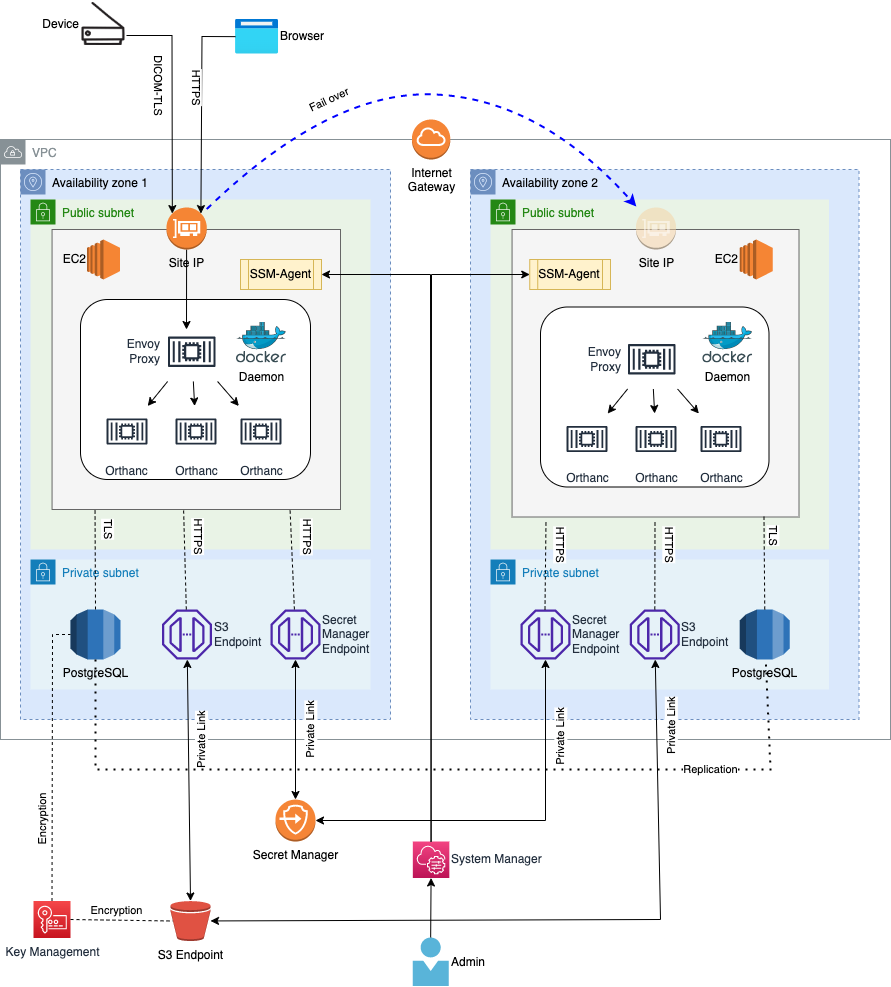
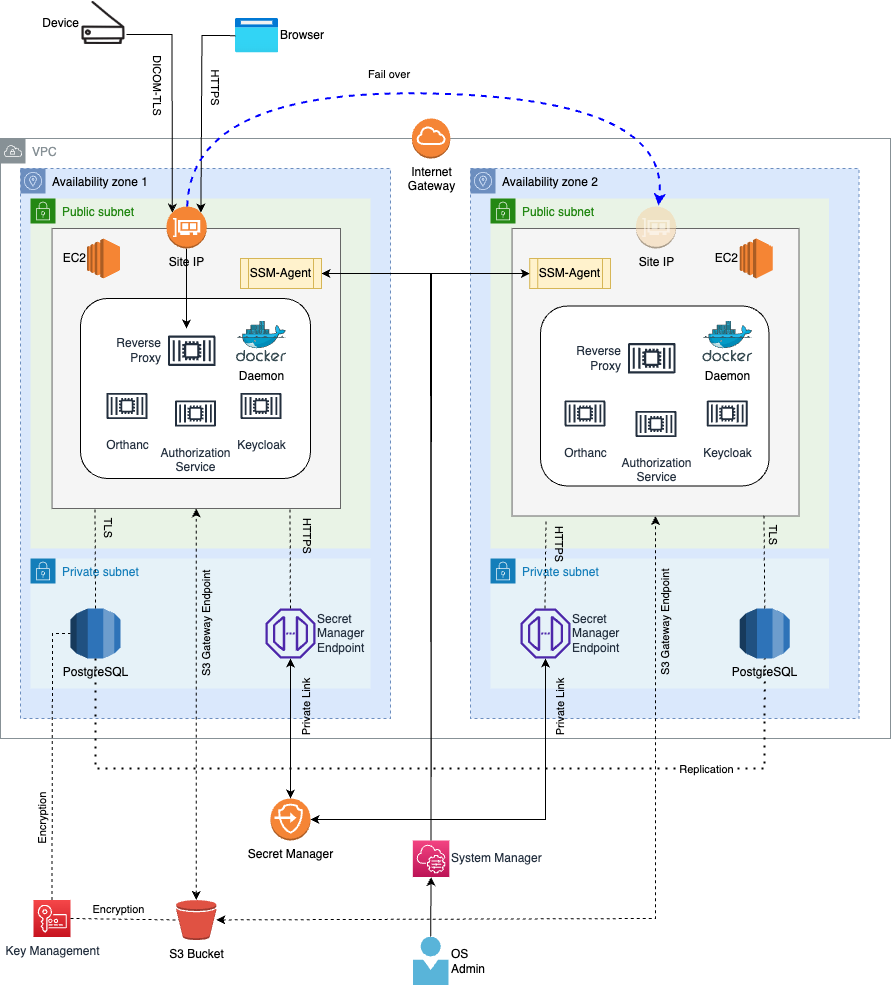
update deployment option param and document

diff --git a/README.md b/README.md
@@ -1,14 +1,22 @@
 # Orthweb - Orthanc on AWS
 <a href="https://www.orthanc-server.com/"><img style="float" align="right" src="docs/assets/images/orthanc_logo.png"></a>
 
-[![Docker](https://img.shields.io/badge/docker-%230db7ed.svg?logo=docker&logoColor=white)](https://www.docker.com/)
-[![Terraform](https://img.shields.io/badge/terraform-%235835CC.svg?logo=terraform&logoColor=white)](https://www.terraform.io/)
-[![Postgres](https://img.shields.io/badge/postgres-%23316192.svg?logo=postgresql&logoColor=white)](https://www.postgresql.org/)
-[![envoybadge](https://img.shields.io/badge/envoyproxy-%23ac6199.svg?logo=envoyproxy&logoColor=white)](https://www.envoyproxy.io/)
+
 [![Linux](https://img.shields.io/badge/Linux-FCC624?logo=linux&logoColor=black)](https://aws.amazon.com/amazon-linux-2)
-[![AWS](https://img.shields.io/badge/AWS-%23FF9900.svg?logo=amazon-aws&logoColor=white)](https://portal.aws.amazon.com/)
+[![Docker](https://img.shields.io/badge/docker-%230db7ed.svg?logo=docker&logoColor=white)](https://www.docker.com/)
+[![Postgres](https://img.shields.io/badge/postgres-%23316192.svg?logo=postgresql&logoColor=white)](https://www.postgresql.org/)
+[![Nginx](https://img.shields.io/badge/nginx-%23009639.svg?&logo=nginx&logoColor=white)](https://nginx.org/en/index.html)
+![Keycloak](https://img.shields.io/badge/Keycloak-4D4D4D?logo=keycloak&logoColor=white&style=flat)
+
+[![AWS](https://img.shields.io/badge/Amazon_AWS-232F3E?logo=amazon-web-services&logoColor=white)](https://portal.aws.amazon.com/)
+[![Terraform](https://img.shields.io/badge/terraform-%235835CC.svg?logo=terraform&logoColor=white)](https://www.terraform.io/)
+![Amazon EC2](https://img.shields.io/badge/Amazon%20EC2-F90?logo=amazonec2&logoColor=fff&style=flat)
+![Amazon S3](https://img.shields.io/badge/Amazon%20S3-569A31?logo=amazons3&logoColor=fff&style=flat)
+![Amazon RDS](https://img.shields.io/badge/Amazon%20RDS-527FFF?logo=amazonrds&logoColor=fff&style=flat)
+
 [![License](https://img.shields.io/badge/License-Apache_2.0-blue.svg)](https://opensource.org/licenses/Apache-2.0)
 [![Latest Release](https://img.shields.io/github/v/release/digihunch/orthweb)](https://github.com/digihunch/orthweb/releases/latest) 
+
 ## Overview
 
 **[Orthweb](https://github.com/digihunch/orthweb)** helps imaging IT administrators operate **[Orthanc](https://www.orthanc-server.com/)** on AWS. The [documentation](https://digihunch.github.io/orthweb/) provides a step-by-step guide for deployment and discusses the architecture.
@@ -23,4 +31,4 @@ However, many Orthanc adopters are smaller entities such as startups, research f
 The **Orthweb** template provisions its own self-contained infrastrcture stack in a single AWS account. It does not rely upon an established network infrastructure platform. The network infrastructure layer provisioned in the project contains a single VPC with multiple subnets, along with required endpoints. The infrastructure layer also contains encryption keys, managed database service and S3 storage. The infrastrcture footprint is small but secure. It aims to comply with regulatory requirements such as HIPPA. However, regulatory auditing is the responsibility of the Orthanc adopter. 
 <br/><br/>
 
-The **Orthweb** project uses **Terraform** for infrastructure as code. It also leverages cloud-init [user data](https://docs.aws.amazon.com/AWSEC2/latest/UserGuide/user-data.html) to automatically install and configure Orthanc application during server bootstrapping. Bring your own AWS account, **Orthweb** can typically set up Orthanc server within 30 minutes and start to serve HTTP and DICOM traffic. The project also takes into account other operational aspects, such as high availability, resiliency and automation in the configuration of **Orthanc** application with Docker, using the official [Orthanc image](https://hub.docker.com/r/orthancteam/orthanc). For those considering hosting Orthanc on Kubernetes, check out our sister project [Korthweb](https://github.com/digihunch/korthweb).
+The **Orthweb** project uses **Terraform** for infrastructure as code. It leverages cloud-init [user data](https://docs.aws.amazon.com/AWSEC2/latest/UserGuide/user-data.html) to configure Orthanc application during server bootstrapping. The configuration is stored in the [orthanc-config](https://github.com/digihunchinc/orthanc-config) repository. Bring your own AWS account, let **Orthweb** set up an Orthanc server within 30 minutes, and start to serve HTTP and DICOM traffic. The project also takes into account other operational aspects, such as high availability, resiliency and automation in the configuration of **Orthanc** application with Docker, using the official [Orthanc image](https://hub.docker.com/r/orthancteam/orthanc). For those considering hosting Orthanc on Kubernetes, check out our sister project [Korthweb](https://github.com/digihunch/korthweb).

diff --git a/docs/index.md b/docs/index.md
@@ -1,12 +1,17 @@
 # Orthweb - Orthanc on AWS
 <a href="https://www.orthanc-server.com/"><img style="float" align="right" src="assets/images/orthanc_logo.png"></a>
 
-[![Docker](https://img.shields.io/badge/docker-%230db7ed.svg?logo=docker&logoColor=white)](https://www.docker.com/)
-[![Terraform](https://img.shields.io/badge/terraform-%235835CC.svg?logo=terraform&logoColor=white)](https://www.terraform.io/)
-[![Postgres](https://img.shields.io/badge/postgres-%23316192.svg?logo=postgresql&logoColor=white)](https://www.postgresql.org/)
-[![envoybadge](https://img.shields.io/badge/envoyproxy-%23ac6199.svg?logo=envoyproxy&logoColor=white)](https://www.envoyproxy.io/)
 [![Linux](https://img.shields.io/badge/Linux-FCC624?logo=linux&logoColor=black)](https://aws.amazon.com/amazon-linux-2)
-[![AWS](https://img.shields.io/badge/AWS-%23FF9900.svg?logo=amazon-aws&logoColor=white)](https://portal.aws.amazon.com/)
+[![Docker](https://img.shields.io/badge/docker-%230db7ed.svg?logo=docker&logoColor=white)](https://www.docker.com/)
+[![Postgres](https://img.shields.io/badge/postgres-%23316192.svg?logo=postgresql&logoColor=white)](https://www.postgresql.org/)
+[![Nginx](https://img.shields.io/badge/nginx-%23009639.svg?&logo=nginx&logoColor=white)](https://nginx.org/en/index.html)
+![Keycloak](https://img.shields.io/badge/Keycloak-4D4D4D?logo=keycloak&logoColor=white&style=flat)
+
+[![AWS](https://img.shields.io/badge/Amazon_AWS-232F3E?logo=amazon-web-services&logoColor=white)](https://portal.aws.amazon.com/)
+[![Terraform](https://img.shields.io/badge/terraform-%235835CC.svg?logo=terraform&logoColor=white)](https://www.terraform.io/)
+![Amazon EC2](https://img.shields.io/badge/Amazon%20EC2-F90?logo=amazonec2&logoColor=fff&style=flat)
+![Amazon S3](https://img.shields.io/badge/Amazon%20S3-569A31?logo=amazons3&logoColor=fff&style=flat)
+![Amazon RDS](https://img.shields.io/badge/Amazon%20RDS-527FFF?logo=amazonrds&logoColor=fff&style=flat)
 
 [![License](https://img.shields.io/badge/License-Apache_2.0-blue.svg)](https://opensource.org/licenses/Apache-2.0)
 [![Latest Release](https://img.shields.io/github/v/release/digihunch/orthweb)](https://github.com/digihunch/orthweb/releases/latest) 
@@ -19,4 +24,6 @@
 The **Orthweb** template provisions its own self-contained infrastrcture stack in a single AWS account. It does not rely upon an established network infrastructure platform. The network infrastructure layer provisioned in the project contains a single VPC with multiple subnets, along with required endpoints. The infrastructure layer also contains encryption keys, managed database service and S3 storage. The infrastrcture footprint is small but secure. It aims to comply with regulatory requirements such as HIPPA. However, regulatory auditing is the responsibility of the Orthanc adopter. 
 <br/><br/>
 
-The **Orthweb** project uses **Terraform** for infrastructure as code. It also leverages cloud-init [user data](https://docs.aws.amazon.com/AWSEC2/latest/UserGuide/user-data.html) to automatically install and configure Orthanc application during server bootstrapping. Bring your own AWS account, **Orthweb** can typically set up Orthanc server within 30 minutes and start to serve HTTP and DICOM traffic. The project also takes into account other operational aspects, such as high availability, resiliency and automation in the configuration of **Orthanc** application with Docker, using the official [Orthanc image](https://hub.docker.com/r/orthancteam/orthanc). For those considering hosting Orthanc on Kubernetes, check out our sister project [Korthweb](https://github.com/digihunch/korthweb).
+The **Orthweb** project uses **Terraform** for infrastructure as code. It leverages cloud-init [user data](https://docs.aws.amazon.com/AWSEC2/latest/UserGuide/user-data.html) to configure Orthanc application during server bootstrapping. The configuration is stored in the [orthanc-config](https://github.com/digihunchinc/orthanc-config) repository. Bring your own AWS account, let **Orthweb** set up an Orthanc server within 30 minutes, and start to serve HTTP and DICOM traffic. The project also takes into account other operational aspects, such as high availability, resiliency and automation in the configuration of **Orthanc** application with Docker, using the official [Orthanc image](https://hub.docker.com/r/orthancteam/orthanc). For those considering hosting Orthanc on Kubernetes, check out our sister project [Korthweb](https://github.com/digihunch/korthweb).
+
+

diff --git a/docs/architecture/orthweb.md b/docs/architecture/orthweb.md
@@ -9,13 +9,13 @@ The Orthweb Architecture can be illustrated in the diagram below:
 
 The site's IP is associated with an Elastic Network Interface (ENI). It is connected to the primary EC2 instance hosted in availability zone 1. Business traffic (DICOM and HTTP) are routed to the Site IP at port 11112 and 443. 
 
-Within each EC2 instance, Docker daemon runs the containers for Envoy proxy and Orthanc application. Orthweb uses [Docker Compose](https://docs.docker.com/compose/) to orchestrate the containers in such a way that three replicas of Orthanc containers operates behind one replica of Envoy proxy container. To scale up, you may increase the number of replicas for Orthanc containers. This scaling model is sufficient for typical Orthanc use cases. 
+Within each EC2 instance, Docker daemon runs the containers for Nginx proxy and Orthanc application. Orthweb uses [Docker Compose](https://docs.docker.com/compose/) to orchestrate the containers in such a way that three replicas of Orthanc containers operates behind one replica of Nginx proxy container. To scale up, you may increase the number of replicas for Orthanc containers. This scaling model is sufficient for typical Orthanc use cases. 
 
-The Envoy proxy serves two different proxy routes: 
+The Nginx proxy serves two different proxy routes: 
 
 ```mermaid
 graph TD;
-    B[Web Browser] --> |HTTPS\n TCP 443|C{Envoy Proxy\n Container};
+    B[Web Browser] --> |HTTPS\n TCP 443|C{Nginx Proxy\n Container};
     X[DICOM Device] -->|DICOM TLS\n TCP 11112| C;
     C -->|HTTPS\n TCP 8042| D[Orthanc\n Container];
     C -. DICOM\n TCP 4242 .-> D;
@@ -25,7 +25,7 @@ graph TD;
     C -. DICOM\n TCP 4242 .-> G;
 ```
 
-The Envoy proxy is configured to spread traffic across three Orthanc containers, with session affinity configured. Each Orthanc container is able to connect to S3 and PostgreSQL database via their respect endpoint in the subnet.
+The Nginx proxy is configured to spread traffic across three Orthanc containers, with session affinity configured. Each Orthanc container is able to connect to S3 and PostgreSQL database via their respect endpoint in the subnet.
 
 
 ## Failover
@@ -64,7 +64,7 @@ Configuring TLS certificate is essential to the security of this architecture. H
 
 A self-signed certificate can encrypt the traffic even though its identity is not certified by the organization's certified authority. Since the Elastic IP is automatically assigned with the format of `ec2-pub-lic-ip-addr.<region>.compute.amazonaws.com`, the self-signed certificate is issued to `compute.amazonaaws.com`. 
 
-The certificate must be applied to both HTTP and DICOM ports for traffic encryption, because the data contains patient information and travels across the Internet. Orthweb automatically configures Envoy proxy using the self-signed certificate for both TCP ports (443 and 11112). 
+The certificate must be applied to both HTTP and DICOM ports for traffic encryption, because the data contains patient information and travels across the Internet. Orthweb automatically configures Nginx proxy using the self-signed certificate for both TCP ports (443 and 11112). 
 
 
 ## Network paths

diff --git a/terraform/README.md b/terraform/README.md
@@ -3,13 +3,13 @@
 | Name | Version |
 |------|---------|
 | <a name="requirement_terraform"></a> [terraform](#requirement\_terraform) | >= 1.5.7 |
-| <a name="requirement_aws"></a> [aws](#requirement\_aws) | >= 5.59.0 |
+| <a name="requirement_aws"></a> [aws](#requirement\_aws) | >= 5.70.0 |
 
 ## Providers
 
 | Name | Version |
 |------|---------|
-| <a name="provider_random"></a> [random](#provider\_random) | 3.6.2 |
+| <a name="provider_random"></a> [random](#provider\_random) | 3.6.3 |
 
 ## Modules
 
@@ -31,9 +31,9 @@
 
 | Name | Description | Type | Default | Required |
 |------|-------------|------|---------|:--------:|
-| <a name="input_CommonTags"></a> [CommonTags](#input\_CommonTags) | Tags to apply for every resource by default | `map(string)` | <pre>{<br>  "Environment": "Dev",<br>  "Owner": "my@digihunch.com"<br>}</pre> | no |
-| <a name="input_DeploymentOptions"></a> [DeploymentOptions](#input\_DeploymentOptions) | Deployment Options for Orthac app configuration | `map(string)` | <pre>{<br>  "EnvoyImg": "envoyproxy/envoy:v1.31.0",<br>  "InstanceType": "t3.medium",<br>  "OrthancImg": "orthancteam/orthanc:24.7.3"<br>}</pre> | no |
-| <a name="input_network_config"></a> [network\_config](#input\_network\_config) | Networking Configuration | <pre>object({<br>    vpc_cidr              = string<br>    scu_cidr = string<br>    az_count              = number<br>    public_subnet_pfxlen  = number<br>    private_subnet_pfxlen = number<br>  })</pre> | <pre>{<br>  "az_count": 2,<br>  "private_subnet_pfxlen": 22,<br>  "public_subnet_pfxlen": 24,<br>  "scu_cidr": "0.0.0.0/0",<br>  "vpc_cidr": "172.17.0.0/16"<br>}</pre> | no |
+| <a name="input_CommonTags"></a> [CommonTags](#input\_CommonTags) | Tags to apply for every resource by default | `map(string)` | <pre>{<br/>  "Environment": "Dev",<br/>  "Owner": "info@digihunch.com"<br/>}</pre> | no |
+| <a name="input_DeploymentOptions"></a> [DeploymentOptions](#input\_DeploymentOptions) | Deployment Options for Orthac app configuration | `map(string)` | <pre>{<br/>  "InstanceType": "t3.medium"<br/>}</pre> | no |
+| <a name="input_network_config"></a> [network\_config](#input\_network\_config) | Networking Configuration | <pre>object({<br/>    vpc_cidr              = string<br/>    scu_cidr              = string<br/>    az_count              = number<br/>    public_subnet_pfxlen  = number<br/>    private_subnet_pfxlen = number<br/>  })</pre> | <pre>{<br/>  "az_count": 2,<br/>  "private_subnet_pfxlen": 22,<br/>  "public_subnet_pfxlen": 24,<br/>  "scu_cidr": "0.0.0.0/0",<br/>  "vpc_cidr": "172.17.0.0/16"<br/>}</pre> | no |
 | <a name="input_pubkey_data"></a> [pubkey\_data](#input\_pubkey\_data) | Public key content for the EC2 instance to authorize. If the key isn't stored in a local file. | `string` | `null` | no |
 | <a name="input_pubkey_path"></a> [pubkey\_path](#input\_pubkey\_path) | Path to file that stores the SSH public key for the EC2 instance to authorize. | `string` | `"~/.ssh/id_rsa.pub"` | no |
 

diff --git a/docs/validation/advanced.md b/docs/validation/advanced.md
@@ -7,19 +7,7 @@ Now we SSH to the server as `ec2-user`, as instructed above. Once connected, we 
 ```sh
 sudo tail -F /var/log/cloud-init-output.log
 ```
-In the log, each container should say `Orthanc has started`. To confirm Envoy proxy started properly, look for the line that says:
-```
-all dependencies initialized. starting workers
-```
-The configuration files related to Orthanc deployment are in directory `/home/ec2-user/orthweb/app`, including:
-
-* `orthanc.json`: the Orthanc configuration file. Some values are specified as [environment variables](https://book.orthanc-server.com/users/configuration.html#environment-variables). Their value can be found in file `~/.orthanc.env`. For example, you can change `VERBOSE_ENABLED` to true and restart Docker compose for Orthanc verbose logging.
-* `envoy.yaml`: the configuration file for Envoy proxy. Changes to this file should take effect rightaway. However, it is helpful to restart Docker container and watch for Envoy logs in case of configuration error.
-* `compute-1.amazonaws.com.pem`: the file that contains the self-signed certificate and key that were generated during server bootstrapping. 
-* `docker-compose.yml`: the file that tells `Docker-compose` how to orchestrate Docker containers. Changes to this file requires Docker-compose to restart to take effect.
-* `.env`: the file that stores the environment variables being referenced in the `docker-compose.yml` file. Changes to this file requires Docker compose to restart to take effect.
-
-Based on envoy proxy configuration, some additional logging files are located in `/home/envoy/` for troubleshooting Envoy proxy.
+In the log, each container should say `Orthanc has started`. The configuration files related to Orthanc deployment are in directory `/home/ec2-user/orthanc-config`. Refer to the [orthanc-config](https://github.com/digihunchinc/orthanc-config) repository for how the configuration automation works. 
 
 ## DICOM communication
 

diff --git a/docs/introduction/index.md b/docs/introduction/index.md
@@ -24,6 +24,6 @@ Orthweb selects numerous open-source tools. Here is the rational behind the choi
 
 **PostgreSQL** is the choice of database amongst all the database engines that Orthanc supports. It is feature rich and supports analytical workloads. Nearly all cloud platforms supports PostgreSQL engine in their managed database offerings.
 
-**Envoy Proxy** is a modern reverse proxy to handle web and DICOm requests. Originally, **Orthweb** started with Nginx proxy. Lately Orthweb deprecated Nginx in favour of Envoy for performance and consistency with Istio Ingress configuration in [Korthweb](https://github.com/digihunch/korthweb) that are Envoy-based.
+**Nginx Proxy** is a widely adopted reverse proxy to handle web and DICOM requests. **Orthweb** adopted Envoy Proxy from 2022 to 2024, but eventually switched to Nginx as the default reverse proxy because it is the main choice in the Orthanc user community.
 
 **Terraform** is a widely used infrastructure-as-code software tool for most common cloud platforms. Terraform templates are written in Hashicorp Configuration Language(HCL), which strikes a good balance between declarativeness and level of abstraction.

diff --git a/docs/deployment/preparation.md b/docs/deployment/preparation.md
@@ -60,7 +60,5 @@ Both mechanisms are enabled by default in the Terraform template.
 This project comes with working default but you can customize it in certain ways. For example,  if you want to run with own container image, different versions, different instance type, you may override the default by declaring environment variable `TF_VAR_DeploymentOptions`, for example:
 
 ```sh
-export TF_VAR_DeploymentOptions="{\"EnvoyImg\":\"envoyproxy/envoy:v1.22.5\",\"OrthancImg\":\"osimis/orthanc:22.11.3\",\"InstanceType\"=\"t2.medium\"}"
+export TF_VAR_DeploymentOptions="{\"InstanceType\"=\"t2.medium\"}"
 ```
-
-This is helpful to test newer version of Orthanc or Envoy proxy.

diff --git a/app/README.md b/app/README.md
@@ -1,0 +1,2 @@
+# Content of this directory will be removed
+# the configuration files have been moved to https://github.com/digihunchinc/orthanc-config
